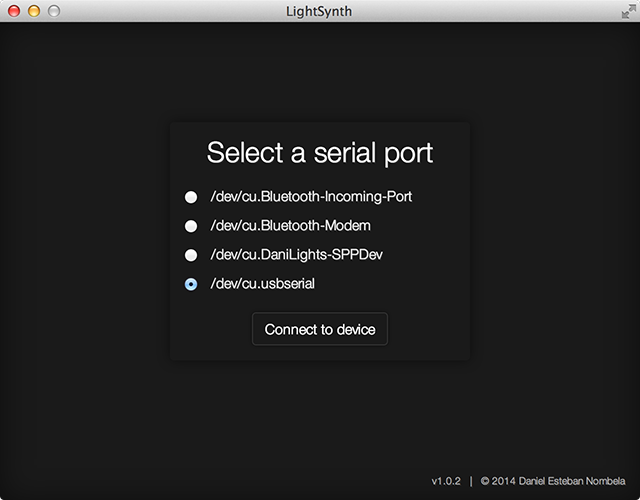
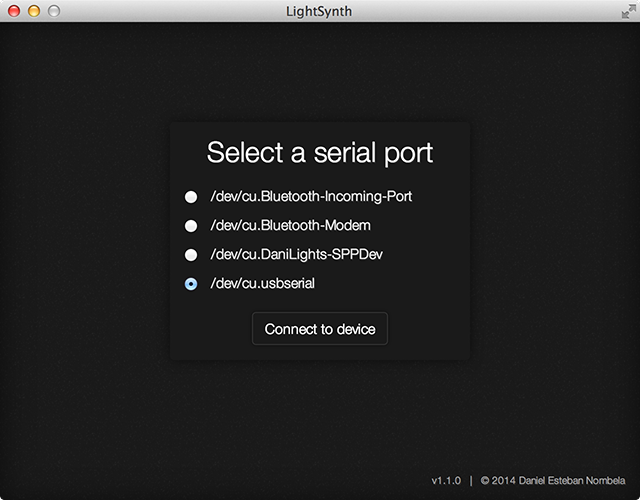
v1.1.0

diff --git a/app.nw/js/controllers.js b/app.nw/js/controllers.js
@@ -35,7 +35,7 @@ angular.module('LightSynth.controllers', [])
 		calibration = function(data) {
 			calibrationData.sums[data.photoResistor] += data.value;
 			calibrationData.counts[data.photoResistor]++;
-			if((new Date() * 1) - calibrationStart < 3000 || calibrationData.counts[0] < 3 || !calibrationData.counts[1] < 3 || !calibrationData.counts[2] < 3 || !calibrationData.counts[3] < 3) return;
+			if((new Date() * 1) - calibrationStart < 3000 || calibrationData.counts[0] < 3 || calibrationData.counts[1] < 3 || calibrationData.counts[2] < 3 || calibrationData.counts[3] < 3) return;
 			if(calibrating === 1) {
 				minValues = [
 					parseFloat((calibrationData.sums[0] / calibrationData.counts[0]).toFixed(2)),
@@ -102,36 +102,31 @@ angular.module('LightSynth.controllers', [])
 	serialport.onData = function(data) {
 		if(calibrating !== 0) return calibration(data);
 		data.value = Math.min(maxValues[data.photoResistor], Math.max(minValues[data.photoResistor], data.value)) - minValues[data.photoResistor];
-		data.value = data.value * 100 / (maxValues[data.photoResistor] - minValues[data.photoResistor]);	
+		data.value =  Math.min(100, Math.max(0, data.value * 100 / (maxValues[data.photoResistor] - minValues[data.photoResistor])));
 		$scope.$apply(function() {
-			var action, percent;
-			if(data.photoResistor < 2) {
-				action = $scope.modeL;
-				$scope.invertL && (data.value = 100 - data.value);
-				percent = $scope.avgL = ($scope.percents[0] + $scope.percents[1]) / 2;
-			} else {
-				action = $scope.modeR;
-				$scope.invertR && (data.value = 100 - data.value);
-				percent = $scope.avgR = ($scope.percents[2] + $scope.percents[3]) / 2;
-			}
+			var left = data.photoResistor < 2;
+			$scope.percents[data.photoResistor] = ((left && $scope.invertL) || (!left && $scope.invertR)) ? (100 - data.value) : data.value;
+			
+			var avg = left ? ($scope.avgL = ($scope.percents[0] + $scope.percents[1]) / 2) : ($scope.avgR = ($scope.percents[2] + $scope.percents[3]) / 2),
+				action = $scope['mode' + (left ? 'L' : 'R')];
+			
 			switch(action) {
 				case 'pitch':
-					if($scope.mode === 'sequencer') sequencer.setNote(percent);
-					else synth.setNote(percent);
+					if($scope.mode === 'sequencer') sequencer.setNote(avg);
+					else synth.setNote(avg);
 				break;
 				case 'fx1':
 				case 'fx2':
 				case 'volume':
-					synth.contolMessage(action === 'volume' ? 7 : action === 'fx1' ? 12 : 13, percent);
+					synth.contolMessage(action === 'volume' ? 7 : action === 'fx1' ? 12 : 13, avg);
 				break;
 				case 'cutoff':
-					synth.setCutoff(percent);
+					synth.setCutoff(avg);
 				break;
 				case 'stroke':
-					synth.strokeNote(percent);
+					synth.strokeNote(avg);
 				break;
 			}
-			$scope.percents[data.photoResistor] = data.value;
 		});
 	};
 
@@ -171,10 +166,16 @@ angular.module('LightSynth.controllers', [])
 				index = Array.prototype.indexOf.call(active.parentNode.children, active);
 
 			switch(code) {
-				case 38:
+				case 37: /* left */
+					--synth.rootOctave < 1 && (synth.rootOctave = 1);
+				break;
+				case 39: /* right */
+					++synth.rootOctave > 6 && (synth.rootOctave = 6);
+				break;
+				case 38: /* up */
 					--index >= 0 && list[index].firstChild.click();
 				break;
-				case 40:
+				case 40: /* down */
 					++index < list.length && list[index].firstChild.click();
 				break;
 			}

diff --git a/app.nw/js/services.js b/app.nw/js/services.js
@@ -94,8 +94,8 @@ angular.module('LightSynth.services', [])
 		cutoff = {
 			min: 4,
 			max: 250,
-			interval: 300,
-			on: false,
+			interval: 250,
+			on: true,
 			lastTick: new Date() * 1
 		};
 
@@ -152,6 +152,8 @@ angular.module('LightSynth.services', [])
 				notesOn[midiNote + interval] = velocity || 127;
 				midi.sendMessage([144, midiNote + interval, velocity || 127]);
 			});
+			cutoff.on = true;
+			cutoff.lastTick = new Date() * 1;
 		},
 		contolMessage: function(message, percent) {
 			var value = Math.round(percent * 127 / 100);
@@ -168,6 +170,8 @@ angular.module('LightSynth.services', [])
 					midi.sendMessage([128, i, notesOn[i]]);
 					midi.sendMessage([144, i, notesOn[i]]);
 				}
+				cutoff.on = true;
+				cutoff.lastTick = new Date() * 1;
 				this.strokingNote = false;
 			}
 		}

diff --git a/README.md b/README.md
@@ -20,18 +20,22 @@ Upload the `LightSynth.ino` sketch to it and hook up 4 photoresistors in this fa
                       |
     Pin A0 o-----------
 
-These are two photoresistors for each hand. The left hand controls the pitch & the right hand controls the volume.
+These are two photoresistors for each hand/axis. Each of the axis can control the pitch, the volume and send 2 FX midi control messages. It also includes a stroke feature and a dubstepian cut-off.
+
+I used photoresistors because I was looking for a theremin feel... but you can connect almost any other analog inputs to it (Potentiometers, Thermistors, A touch panel, etc...)
 
 Enjoy! ;P
 
 ## Downloads
-**v1.0.2:** (Aug 22, 2014)
+**v1.1.0:** (Aug 24, 2014)
 
- * Mac: [32bit, 10.7+](https://github.com/danielesteban/LightSynth/releases/download/v1.0.2/LightSynth-darwin.dmg)
+ * Mac: [32bit, 10.7+](https://github.com/danielesteban/LightSynth/releases/download/v1.1.0/LightSynth-darwin.dmg)
 
 ![Connect View](https://raw.githubusercontent.com/danielesteban/LightSynth/master/screenshots/connect.png)
 
-![Main View](https://raw.githubusercontent.com/danielesteban/LightSynth/master/screenshots/main.png)
+![Synth View](https://raw.githubusercontent.com/danielesteban/LightSynth/master/screenshots/synth.png)
+
+![Sequencer View](https://raw.githubusercontent.com/danielesteban/LightSynth/master/screenshots/sequencer.png)
 
 ## If you see this error...
 
